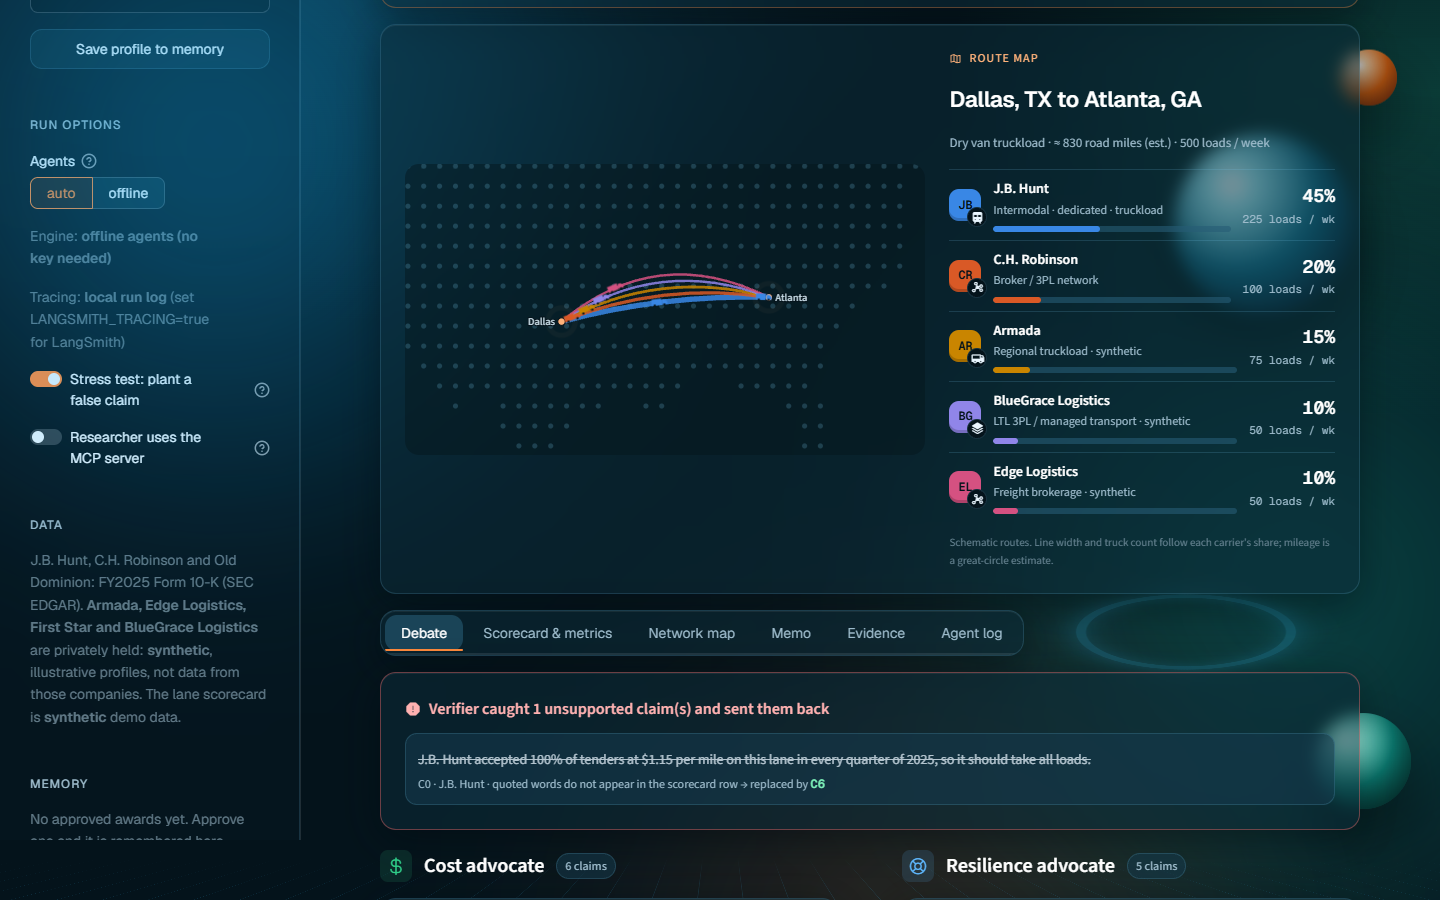
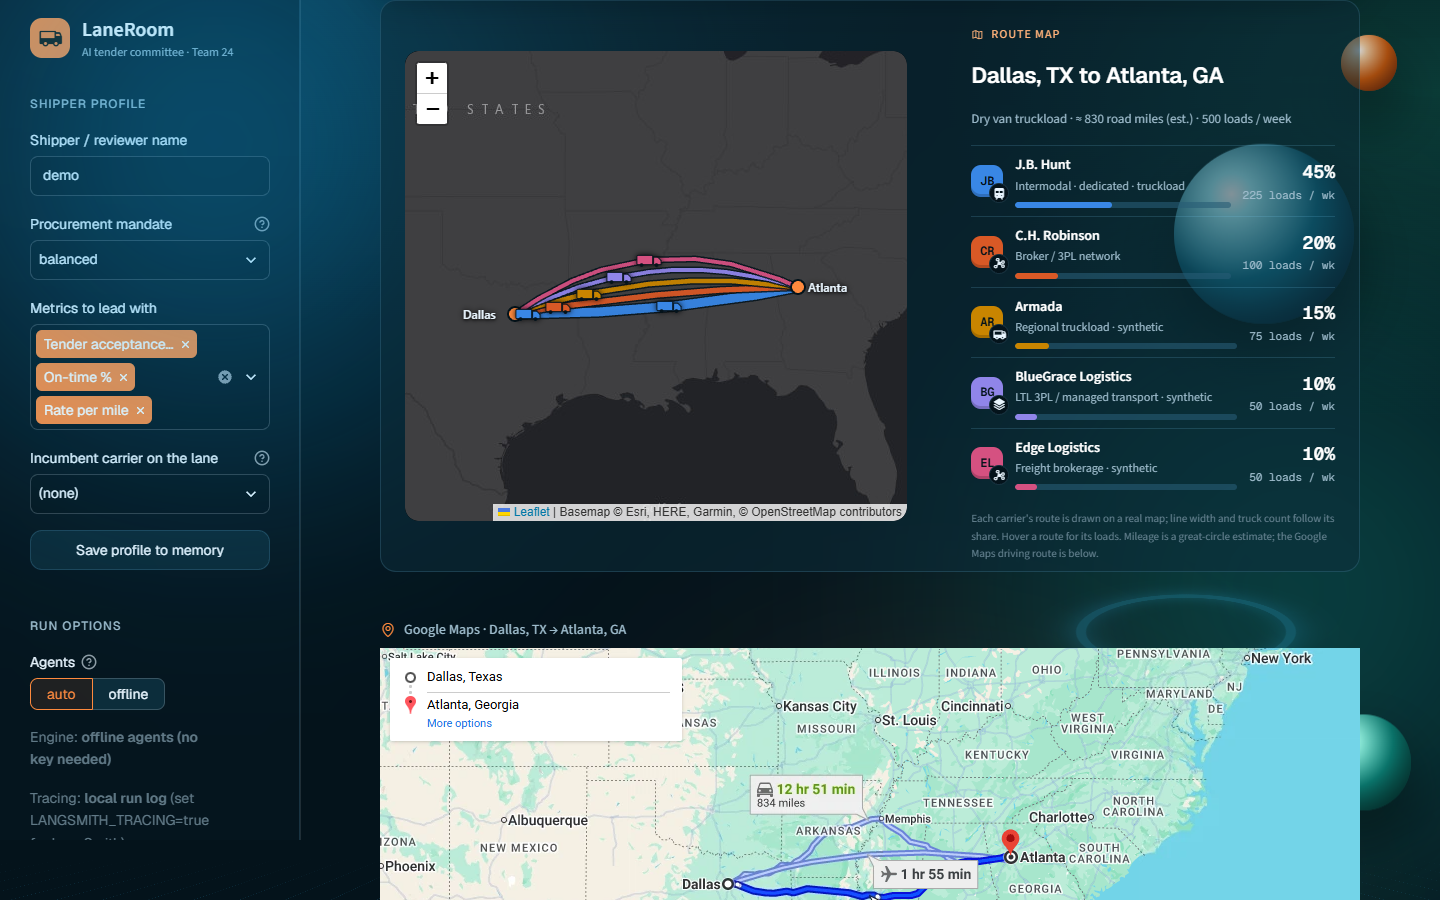
Route card draws each carrier's route on a real map (Leaflet, keyless Esri basemap)

diff --git a/src/laneroom/maps.py b/src/laneroom/maps.py
@@ -247,3 +247,114 @@ def google_maps_url(lane_id: str, api_key: str = "", embed: bool = True) -> str:
         return url
     daddr = "+to:".join(quote_plus(s) for s in stops[1:])
     return f"https://maps.google.com/maps?saddr={quote_plus(stops[0])}&daddr={daddr}&output=embed"
+
+
+# ---------------------------------------------------------------- real-map lane view (Leaflet)
+def _bezier(a: tuple, b: tuple, bend: float, offset: float, n: int = 48) -> list[list[float]]:
+    """Quadratic curve from a to b (lon, lat) bowed sideways by bend * length + offset degrees; returns [lat, lon]."""
+    (x1, y1), (x2, y2) = a, b
+    dx, dy = x2 - x1, y2 - y1
+    length = math.hypot(dx, dy) or 1.0
+    nx, ny = -dy / length, dx / length
+    k = bend * length + offset
+    cx, cy = (x1 + x2) / 2 + nx * k, (y1 + y2) / 2 + ny * k
+    pts = []
+    for i in range(n + 1):
+        t = i / n
+        x = (1 - t) ** 2 * x1 + 2 * (1 - t) * t * cx + t * t * x2
+        y = (1 - t) ** 2 * y1 + 2 * (1 - t) * t * cy + t * t * y2
+        pts.append([round(y, 4), round(x, 4)])
+    return pts
+
+
+def lane_routes_geo(lane_id: str, allocation: list[dict]) -> list[dict]:
+    """Per-carrier route lines in lat/lon for a real map: one bowed line per awarded carrier on point lanes,
+    one line per leg (coloured by a lead carrier) on network lanes."""
+    routes = LANE_ROUTES.get(lane_id, [])
+    awarded = [r for r in allocation if r.get("share", 0) > 0]
+    out = []
+    for ri, (a, b) in enumerate(routes):
+        pa, pb = CITIES[a], CITIES[b]
+        if len(routes) > 1:
+            r = awarded[ri % len(awarded)] if awarded else {"company": "", "share": 0}
+            out.append({"carrier": r["company"], "share": r.get("share", 0), "loads": r.get("loads"),
+                        "color": PROVIDERS.get(r["company"], FALLBACK)["color"], "leg": f"{a} → {b}",
+                        "pts": _bezier(pa, pb, 0.12, 0), "weight": 4, "trucks": 1,
+                        "kind": "truck"})
+            continue
+        n = len(awarded)
+        dist = math.hypot(pb[0] - pa[0], pb[1] - pa[1])
+        for i, r in enumerate(awarded):
+            off = (i - (n - 1) / 2) * dist * 0.07
+            out.append({"carrier": r["company"], "share": r["share"], "loads": r.get("loads"),
+                        "color": PROVIDERS.get(r["company"], FALLBACK)["color"], "leg": f"{a} → {b}",
+                        "pts": _bezier(pa, pb, 0.10, off), "weight": round(2.5 + r["share"] / 7, 1),
+                        "trucks": max(1, round(r["share"] / 20)),
+                        "kind": "train" if lane_id == "CHI-LAX" and r["company"] == "J.B. Hunt" else "truck"})
+    return out
+
+
+LEAFLET_HTML = """<!doctype html><html><head><meta charset="utf-8">
+<link rel="stylesheet" href="https://unpkg.com/leaflet@1.9.4/dist/leaflet.css">
+<script src="https://unpkg.com/leaflet@1.9.4/dist/leaflet.js"></script>
+<style>
+html,body{margin:0;height:100%;background:#04131B;font-family:system-ui,Segoe UI,sans-serif}
+#m{position:absolute;inset:0;border-radius:14px;overflow:hidden;background:#04131B}
+.leaflet-container{background:#04131B}
+.city{color:#eaf6ff;font:600 12px system-ui;text-shadow:0 1px 3px #000,0 0 6px #000;white-space:nowrap}
+.leaflet-tooltip.lr{background:#0b2633;color:#eaf6ff;border:1px solid #1d4252;border-radius:8px;font:12px system-ui}
+.leaflet-tooltip.lr:before{display:none}
+.veh svg{filter:drop-shadow(0 0 3px rgba(0,0,0,.9))}
+</style></head><body><div id="m"></div><script>
+const D = __DATA__;
+const map = L.map('m', {zoomControl: true, scrollWheelZoom: false, attributionControl: true});
+const ESRI = 'https://server.arcgisonline.com/ArcGIS/rest/services/Canvas/';
+L.tileLayer(ESRI + 'World_Dark_Gray_Base/MapServer/tile/{z}/{y}/{x}', {maxZoom: 16,
+  attribution: 'Basemap &copy; Esri, HERE, Garmin, &copy; OpenStreetMap contributors'}).addTo(map);
+const all = [];
+const TRUCK = c => `<svg width="26" height="14" viewBox="-14 -7 28 14"><rect x="-13" y="-5" width="17" height="10" rx="1.5" fill="${c}" stroke="#04131B" stroke-width="1"/><path d="M5 -3 h4.5 l3.5 3.5 v4.5 h-8z" fill="${c}" stroke="#04131B" stroke-width="1"/><circle cx="-8" cy="5.5" r="2" fill="#04131B"/><circle cx="8" cy="5.5" r="2" fill="#04131B"/></svg>`;
+const TRAIN = c => `<svg width="30" height="14" viewBox="-16 -7 32 14"><rect x="-15" y="-5" width="13" height="9" rx="1.5" fill="${c}"/><rect x="0" y="-5" width="15" height="9" rx="2.5" fill="${c}"/><circle cx="-11" cy="5.5" r="1.8" fill="#04131B"/><circle cx="-5" cy="5.5" r="1.8" fill="#04131B"/><circle cx="4" cy="5.5" r="1.8" fill="#04131B"/><circle cx="11" cy="5.5" r="1.8" fill="#04131B"/></svg>`;
+const movers = [];
+D.routes.forEach((r, i) => {
+  L.polyline(r.pts, {color: '#04131B', weight: r.weight + 3, opacity: .85}).addTo(map);
+  const line = L.polyline(r.pts, {color: r.color, weight: r.weight, opacity: .95, lineCap: 'round'}).addTo(map);
+  const loads = r.loads != null ? ` · ${r.loads.toLocaleString()} loads/wk` : '';
+  line.bindTooltip(`<b>${r.carrier}</b> · ${Math.round(r.share)}%${loads}<br>${r.leg}`, {sticky: true, className: 'lr'});
+  r.pts.forEach(p => all.push(p));
+  for (let t = 0; t < r.trucks; t++) {
+    const icon = L.divIcon({className: 'veh', html: (r.kind === 'train' ? TRAIN : TRUCK)(r.color), iconSize: [26, 14], iconAnchor: [13, 7]});
+    movers.push({m: L.marker(r.pts[0], {icon, interactive: false}).addTo(map), pts: r.pts, phase: t / r.trucks + i * 0.11,
+                 speed: 1 / (D.routes.length > 1 ? 7000 : 9000)});
+  }
+});
+D.cities.forEach(c => {
+  L.circleMarker([c.lat, c.lon], {radius: c.hub ? 7 : 5, color: '#04131B', weight: 2, fillColor: '#FF8A3D', fillOpacity: 1}).addTo(map);
+  L.marker([c.lat, c.lon], {icon: L.divIcon({className: 'city', html: c.name, iconSize: null, iconAnchor: c.below ? [c.name.length * 3.5, -8] : c.left ? [c.name.length * 7 + 10, 8] : [-10, 8]}),
+            interactive: false}).addTo(map);
+});
+map.fitBounds(all, {padding: [34, 34]});
+function at(pts, f) {
+  const x = f * (pts.length - 1), i = Math.min(Math.floor(x), pts.length - 2), u = x - i;
+  return [pts[i][0] + (pts[i + 1][0] - pts[i][0]) * u, pts[i][1] + (pts[i + 1][1] - pts[i][1]) * u];
+}
+const reduce = window.matchMedia('(prefers-reduced-motion: reduce)').matches;
+function tick(now) {
+  movers.forEach(v => v.m.setLatLng(at(v.pts, reduce ? (v.phase % 1) : ((now * v.speed + v.phase) % 1))));
+  if (!reduce) requestAnimationFrame(tick);
+}
+requestAnimationFrame(tick);
+</script></body></html>"""
+
+
+def lane_map_html(lane_id: str, allocation: list[dict]) -> str:
+    """Self-contained Leaflet page: the lane on a real (Esri dark gray, keyless) basemap with one coloured route per carrier."""
+    import json
+
+    routes = LANE_ROUTES.get(lane_id, [])
+    names = sorted({c for r in routes for c in r})
+    hubs = set(LANE_HUBS.get(lane_id, [])) | ({routes[0][0], routes[0][1]} if len(routes) == 1 else set())
+    data = {"routes": lane_routes_geo(lane_id, allocation),
+            "cities": [{"name": c, "lon": CITIES[c][0], "lat": CITIES[c][1], "hub": c in hubs, "left": c in _LEFT_LABELS,
+                        "below": c == "Phoenix" and "Los Angeles" in names}
+                       for c in names]}
+    return LEAFLET_HTML.replace("__DATA__", json.dumps(data))

diff --git a/src/laneroom/ui.py b/src/laneroom/ui.py
@@ -310,6 +310,9 @@ div[data-testid="stVerticalBlockBorderWrapper"]{ border-radius:16px; }
 .lrow .sh small{ display:block; font-size:11px; color:var(--muted); font-weight:400; }
 .lrow .mbar{ height:6px; border-radius:9999px; background:var(--raise); margin-top:6px; overflow:hidden; }
 .lrow .mbar i{ display:block; height:100%; border-radius:9999px; }
+.lanecard.side{ display:block; }
+.st-key-lanecard{ background:var(--panel); border:1px solid var(--line); border-radius:16px; padding:var(--s300); margin-bottom:var(--s200); }
+.st-key-lanecard iframe{ border-radius:14px; }
 .lanecard .note{ color:var(--dim); font-size:11px; margin-top:var(--s100); }
 @media (prefers-reduced-motion: reduce){ .lrmap .route, .lrmap .pulse, .road:before, .road .rv{ animation:none !important; } }
 </style>
@@ -544,7 +547,8 @@ def road(label: str = "") -> str:
     return f'<div class="road" aria-hidden="true">{t1}{t2}<span class="tag">{escape(label)}</span></div>'
 
 
-def lane_card(judge: dict, plan: dict) -> str:
+def lane_card(judge: dict, plan: dict, side_only: bool = False) -> str:
+    """Route card: schematic SVG + carrier list, or (side_only) just the list beside a real map."""
     alloc = judge.get("allocation", [])
     lane_id = plan.get("lane_id", "")
     rows = []
@@ -556,9 +560,13 @@ def lane_card(judge: dict, plan: dict) -> str:
                     f'<div class="mbar"><i style="width:{r["share"]:.0f}%;background:{p["color"]}"></i></div></div>'
                     f'<div class="sh">{r["share"]:.0f}%{loads}</div></div>')
     loads = f' · {plan["loads"]:,} loads / week' if plan.get("loads") else ""
+    head = (f'<div class="ttl">{icon("map-trifold")} Route map</div><h3>{escape(plan.get("lane", ""))}</h3>'
+            f'<div class="sub">{escape(plan.get("mode", ""))} · {escape(maps.lane_distance(lane_id))}{loads}</div>')
+    if side_only:
+        note = ("Each carrier&#39;s route is drawn on a real map; line width and truck count follow its share. "
+                "Hover a route for its loads. Mileage is a great-circle estimate; the Google Maps driving route is below.")
+        return f'<div class="lanecard side">{head}{"".join(rows)}<div class="note">{note}</div></div>'
     note = ("Schematic routes. Line width and truck count follow each carrier&#39;s share; mileage is a "
             "great-circle estimate.")
     return (f'<div class="card lanecard"><div>{maps.lane_svg(lane_id, alloc, uid="lane-" + lane_id)}</div><div>'
-            f'<div class="ttl">{icon("map-trifold")} Route map</div><h3>{escape(plan.get("lane", ""))}</h3>'
-            f'<div class="sub">{escape(plan.get("mode", ""))} · {escape(maps.lane_distance(lane_id))}{loads}</div>'
-            f'{"".join(rows)}<div class="note">{note}</div></div></div>')
+            f'{head}{"".join(rows)}<div class="note">{note}</div></div></div>')

diff --git a/app.py b/app.py
@@ -151,6 +151,21 @@ def run_stream(gen, box) -> None:
             box.update(label=f"{icon} {NODE_LABELS.get(t['node'], t['node'])} done")
 
 
+def lane_route_card(judge: dict, plan: dict) -> None:
+    """Route card: the lane on a real map (Leaflet, one coloured route per carrier) beside the carrier shares."""
+    from laneroom import maps
+
+    if not maps.LANE_ROUTES.get(plan.get("lane_id", "")):
+        st.markdown(ui.lane_card(judge, plan), unsafe_allow_html=True)
+        return
+    with st.container(key="lanecard"):
+        left, right = st.columns([1.35, 1], gap="large", vertical_alignment="center")
+        with left:
+            components.html(maps.lane_map_html(plan["lane_id"], judge.get("allocation", [])), height=470)
+        with right:
+            st.markdown(ui.lane_card(judge, plan, side_only=True), unsafe_allow_html=True)
+
+
 def google_route(plan: dict) -> None:
     """The lane on a real US road map (Google Maps), under the schematic carrier-share route card."""
     from laneroom import maps
@@ -211,7 +226,7 @@ with tab_room:
             if state.get("plan", {}).get("lane_note"):
                 st.warning(state["plan"]["lane_note"], icon="🗺")
             st.markdown(ui.verdict(state.get("judge", {})), unsafe_allow_html=True)
-            st.markdown(ui.lane_card(state.get("judge", {}), state.get("plan", {})), unsafe_allow_html=True)
+            lane_route_card(state.get("judge", {}), state.get("plan", {}))
             google_route(state.get("plan", {}))
 
             t_debate, t_metrics, t_map, t_memo, t_evidence, t_trace = st.tabs(

diff --git a/tests/test_tools_metrics.py b/tests/test_tools_metrics.py
@@ -89,3 +89,18 @@ def test_armada_evidence_is_flagged_synthetic():
 
 def test_get_page_text():
     assert "75.2%" in get_page("Old Dominion", 48)
+
+
+def test_lane_map_html_has_one_route_per_awarded_carrier():
+    import json
+
+    from laneroom import maps
+
+    alloc = [{"company": "J.B. Hunt", "share": 60, "loads": 300}, {"company": "Armada", "share": 40, "loads": 200},
+             {"company": "First Star", "share": 0, "loads": 0}]
+    routes = maps.lane_routes_geo("DAL-HOU", alloc)
+    assert [r["carrier"] for r in routes] == ["J.B. Hunt", "Armada"]
+    assert routes[0]["pts"][0] == [maps.CITIES["Dallas"][1], maps.CITIES["Dallas"][0]]
+    html = maps.lane_map_html("DAL-HOU", alloc)
+    data = json.loads(html.split("const D = ")[1].split(";\n")[0])
+    assert {c["name"] for c in data["cities"]} == {"Dallas", "Houston"} and "leaflet" in html

diff --git a/docs/DEMO_SCRIPT.md b/docs/DEMO_SCRIPT.md
@@ -15,7 +15,7 @@
 | 0:30 to 0:55 | Pipeline: Researcher and Quant finish | "The Researcher searches J.B. Hunt's, C.H. Robinson's and Old Dominion's FY2025 10-Ks with hybrid search, over an MCP server if we want, and re-searches weak results. Armada, Edge Logistics, First Star and BlueGrace Logistics are private, so their documents are synthetic, illustrative profiles, and the lane scorecard is synthetic shipper data. The Quant reads revenue, operating income and cash flow straight from the filings' tables." |
 | 0:55 to 1:20 | **Debate** tab: Cost and Resilience columns, rebuttal | "Two advocates argue: Cost wants the cheapest rate per mile, Resilience wants acceptance and peak-season capacity. Then they rebut each other." |
 | 1:20 to 1:40 | The red "rejected" claim C0 and its replacement | "We planted a false claim: J.B. Hunt accepted 100 percent of tenders at a dollar fifteen a mile. The Verifier checked the scorecard row, rejected it, and the advocate replaced it with a supported one." |
-| 1:40 to 2:05 | Verdict card, the **Route map** card (one coloured route per carrier, trucks moving) and the Google Maps driving route under it, then **Network map**, **Memo**, **Evidence** | "The Judge turns verified evidence into an award: 45 percent J.B. Hunt, then C.H. Robinson, Armada, BlueGrace and Edge Logistics. The route map draws each carrier's share of the lane. No carrier gets more than 60 percent, everyone qualified keeps backup volume, and the private carriers are capped because their profiles are synthetic. The memo footnotes every claim to a 10-K page or a scorecard row." |
+| 1:40 to 2:05 | Verdict card, the **Route map** card (one coloured route per carrier on a real map, trucks moving) and the Google Maps driving route under it, then **Network map**, **Memo**, **Evidence** | "The Judge turns verified evidence into an award: 45 percent J.B. Hunt, then C.H. Robinson, Armada, BlueGrace and Edge Logistics. The route map draws each carrier's share of the lane. No carrier gets more than 60 percent, everyone qualified keeps backup volume, and the private carriers are capped because their profiles are synthetic. The memo footnotes every claim to a 10-K page or a scorecard row." |
 | 2:05 to 2:20 | Switch mandate to **service-first**, pick **Peak surge**, convene again | "Change the shipper's mandate in memory to service-first, and the peak-season award shifts toward Old Dominion's on-time service." |
 | 2:20 to 2:35 | **Agent log** tab, then **Approve allocation** | "Every agent is traced with time, LLM calls, tokens and cost. A human approves before anything is saved, and approvals go into long-term memory." |
 | 2:35 to 2:50 | **Evaluation** tab | "On our eval: 100 percent of final claims verified, the planted claim caught every time, 29 of 29 filing and profile figures exact, and every allocation follows the tender rules." |

diff --git a/README.md b/README.md
@@ -35,7 +35,7 @@ profiles: **Armada**, **Edge Logistics**, **First Star** and **BlueGrace Logisti
 
 ![Recommended tender allocation with the split bar and per-carrier fit](docs/screenshots/02_verdict.png)
 
-| Route map: one coloured route per carrier, width = share | Network map on real geography | Carrier roster with badges |
+| Route map: one coloured route per carrier on a real map, width = share | Network map on real geography | Carrier roster with badges |
 |---|---|---|
 | ![route map](docs/screenshots/12_route_map.png) | ![network map](docs/screenshots/13_network_map.png) | ![roster](docs/screenshots/11_roster.png) |
 
@@ -64,7 +64,7 @@ profiles: **Armada**, **Edge Logistics**, **First Star** and **BlueGrace Logisti
 | Decision | A Judge scores each carrier from lane KPIs, financial health and the verified debate, weighted by the shipper's mandate, then allocates 100% of loads under tender rules (≤ 60% per carrier, ≥ 10% backup share, 80% acceptance floor, 25% cap on synthetic-only evidence) |
 | Human in the loop | LangGraph `interrupt()` pauses before anything is awarded: approve, request changes, or ask a follow-up |
 | Memory | Thread memory in the LangGraph checkpointer; long-term shipper memory (cost-first / balanced / service-first mandate, preferred KPIs, incumbent carrier, past awards) that changes the Judge's weighting |
-| Logistics UI | Animated US route map with moving trucks (and a train on the intermodal lane), a per-lane route card where each carrier's route width follows its share, a **Google Maps** driving route for the lane (official Embed API with `GOOGLE_MAPS_API_KEY`, keyless embed otherwise), a pydeck arc map on real geography, carrier badges and a carrier roster |
+| Logistics UI | Animated US route map with moving trucks (and a train on the intermodal lane), a per-lane route card that draws each carrier's route on a real map (Leaflet, Esri dark basemap, no key) with moving trucks and width following its share, a **Google Maps** driving route for the lane (official Embed API with `GOOGLE_MAPS_API_KEY`, keyless embed otherwise), a pydeck arc map on real geography, carrier badges and a carrier roster |
 | Guardrails | Prompt-injection, scope and unknown-carrier checks on input, injection stripping on retrieved text, no stock advice in output, synthetic data labelled everywhere, disclaimer always added |
 
 ```mermaid

diff --git a/docs/ARCHITECTURE.md b/docs/ARCHITECTURE.md
@@ -74,7 +74,8 @@ judge and Writer are LLM calls. Without a key, deterministic offline agents run 
 and CI never depend on an API. Any LLM failure falls back to the offline agent for that step.
 
 **Logistics UI.** The hero is a dot-matrix US route map with trucks (and a train on the intermodal lane) moving
-along every scorecard lane. After a run, a route card draws the awarded lane with one coloured route per carrier,
+along every scorecard lane. After a run, a route card draws the awarded lane on a real map (Leaflet on Esri's keyless dark basemap) with one
+coloured route per carrier and trucks moving along it,
 whose width and truck count follow its share, next to loads per week. A "Network map" tab shows the same arcs on
 real geography (pydeck on a CARTO basemap), and under the route card a Google Maps iframe shows the actual
 driving route (the official Maps Embed API when `GOOGLE_MAPS_API_KEY` is set, Google's keyless embed otherwise;
